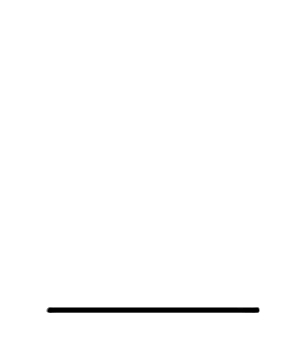
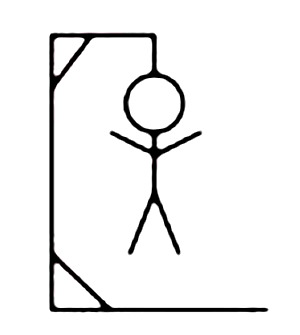
uppdating

Changed region(s): [[0.15, 0.0896, 0.9, 0.9552]]

diff --git a/js/hangman3.js b/js/hangman3.js
@@ -1,29 +1,166 @@
 $(function() {
+
+    $(".reset-game").hide();
    
-const WORDSARRAY = ["cheer", "table", "beach", "green", "drive", "hello", "admit", "earth", "image", "brown", "mouse", "house", "water", "drink"];
-const WORD = WORDSARRAY[ (Math.floor(Math.random() * WORDSARRAY.length))];
+    const WORDSARRAY = ["cheer", "table", "beach", "green", "drive", "hello", "admit", "earth", "image", "brown", "mouse", "house", "water", "drink"];
+    
+    let newWord = WORDSARRAY[ (Math.floor(Math.random() * WORDSARRAY.length))];
+    console.log(newWord);
+    const LETTERSARRAY = ["A", "B", "C", "D", "E", "F", "G", "H", "I", "J", "K", "L", "M", "N", "O", "P", "Q", "R", "S", "T", "U", "V", "W", "X", "Y", "Z"];
+    
+    let wins = 0;// count the total number of wins
+    let lose = 0;// counmt the total number of losses
 
-const LETTERSARRAY = ["A", "B", "C", "D", "E", "F", "G", "H", "I", "J", "K", "L", "M", "N", "O", "P", "Q", "R", "S", "T", "U", "V", "W", "X", "Y", "Z"];
+    let hiddenWord = "-----";
+    let letter;
+    let lettersEntered = [];    // new array for the letters entered, will add one by one in the game
+    
+    let attempts = 12; // number of attempts
+
+    let letterArray = [];
+
+    for (let b = 1; b <= 12; b++) {                             //All the pictures hiden from the begining
+        $(".picture").append('<img src="./images/'+b+'.jpg" alt="hangman" hidden=true id="' + b +'" />');
+
+    }
+   
+    $(".guessword").text(hiddenWord);
+    $(".attempts").text("Atempts: " + attempts + " of 12");
+    $(".letters_entered").text("Letters already entered: " + lettersEntered);
 
 
-$(".picture").append('<img src="./images/12.jpg" alt="hangman" />');
+    for (let k = 0; k < LETTERSARRAY.length; k++) {   //to get the keyboard from the LETTERSARRAY.
+        $("<button class='buttons'>"+LETTERSARRAY[k]+"</button>").appendTo(".keyboard"); 
+    }
+
+    $(".buttons").on( {
+        mouseenter: function() {
+            $(this).addClass("activebutton");
+        },
+        mouseleave: function(){
+            $(this).removeClass("activebutton");
+        },
+        click: function() {
+            //
+            letter= $(this).text().toLowerCase();
+
+            if(attempts > 0){
+                if(newWord.indexOf(letter) != -1) {     // check if the letter is in the word
+                //the user enter the right code
+                    lettersEntered.push(letter);  // add letter into the array
+                    letterArray = findIndexes(letter, newWord);   // calling function that will return array of indexes
+                   
+                    for(let j = 0; j < letterArray.length; j++){     //replace the "-" with the entered letter
+                        hiddenWord = replaceAt(hiddenWord,letterArray[j],letter);
+                    }
+                    if(hiddenWord === newWord){    // final conditional if the whole word is guessed or not.
+                        $(".section2").hide();
+                        $(".keyboard").hide();
+                        $(".section3").text("CONGRATULATIONS!!! YOU WIN.The word was: " + newWord).show();
+                        $(".reset-game").show();
+                        wins++;
+                    }else{
+                        $(".guessword").text(hiddenWord);
+                        $(".attempts").text("Atempts: " + attempts + " of 12");
+                        $(".letters_entered").text("Letters already entered: " + lettersEntered);
+    
+                    }
 
 
 
-for (let k = 0; k < LETTERSARRAY.length; k++) {   //to get the keyboard from the lettersArray.
-    $("<button class='buttons'>"+LETTERSARRAY[k]+"</button>").appendTo(".keyboard"); 
+                }else{                  //the user enter the wrong letter
+                    if(attempts === 12) {
+                        $("#" + attempts).show();
+                        attempts--;
+                    }else{
+                        $("#"+ (attempts + 1)).hide();
+                        $("#" + attempts).show();
+                        attempts--;
+
+                        if(attempts === 0) {
+                            $(".section2").hide();
+                            $(".keyboard").hide();
+                            $(".section3").text("GAME OVER, click reset to start again").show();
+                            $("reset-game").show();
+                            lose++;
+                        }
+                    }
+                    
+                    lettersEntered.push(letter);  // add letter into the array
+
+                    $(".guessword").text(hiddenWord);
+                    $(".attempts").text("Atempts: " + attempts + " of 12");
+                    $(".letters_entered").text("Letters already entered: " + lettersEntered);
+
+                }
+
+            }else{
+               $(".section2").hide();
+               $(".keyboard").hide();
+               $(".section3").text("GAME OVER, click reset to start again");
+               $("reset-game").show();
+               //lose++;
+            }
+        }
+    })
+
+
+
+
+function findIndexes(l, w){  // l for letter and w for word, two variables that i do not want to mix with the above already write.
+
+    let arrayOfIndexes = [];
+
+    for(let i = 0; i < w.length; i++) {
+        if(l === w[i]){                     // if the letter is in the word will add its index in the array of indexes
+            arrayOfIndexes.push(i);
+        }
+    }
+    return arrayOfIndexes;
 }
 
-$(".buttons").on( {
+function replaceAt(hWord,index,letter){
+    if(index === 0) {
+        return  letter + hWord.substring(1, hWord.length);   // this is for the first letter to replace
+    }else if (index === hWord.length-1) {                                    // this is for the last letter to replace
+        return hWord.substring(0, hWord.length-1) + letter;
+    }else {
+        return hWord.substring(0, index) + letter+hWord.substring(index+1,hWord.length);   //this is for the middle letters to replace
+    } 
+}
+
+$("<button class='reset'>RESET</button>").appendTo(".reset-game");
+
+$(".reset").on( {
     mouseenter: function() {
         $(this).addClass("activebutton");
     },
     mouseleave: function(){
         $(this).removeClass("activebutton");
     },
-  //  click: function() {
-  //      $(this).
-    })
+    click: function() {
+        $(".section3").hide();
 
+        hiddenWord="-----";
+        if(attempts < 12){
+            $("#" + (attempts+1)).hide();
+        }
+        attempts = 12; 
+        lettersEntered = [];   
+        newWord = WORDSARRAY[ (Math.floor(Math.random() * WORDSARRAY.length))];
+        console.log(newWord);
+
+        $(".guessword").text(hiddenWord);
+        $(".attempts").text("Atempts: " + attempts + " of 12");
+        $(".letters_entered").text("Letters already entered: " + lettersEntered);
+
+        $(".section2").show();
+        $(".keyboard").show();
+        $(".reset-game").hide();
+
+    }
+    
 })
 
+
+})

diff --git a/styles/hangman3.css b/styles/hangman3.css
@@ -1,5 +1,6 @@
 html {
     height: 100vh;
+    margin: 0;
 }
 
 * {
@@ -8,7 +9,6 @@ html {
 
 body {
     background-color: #BBC3C9;
-    min-height: 100%;
     margin: 0;
 }
 
@@ -34,10 +34,7 @@ h3 {
 
 main {
     padding: 32px;
-}
-
-.picture {
-    padding: 32px;
+    height: 100%;
 }
 
 .buttons {
@@ -45,10 +42,94 @@ main {
     font-size: 20px;
     margin: 4px;
     padding: 12px;
-
 }
 
 .activebutton {
     background-color: #9b6a6c;
     color: #bdd4e7;
+}
+
+.container {
+    display: flex;
+    justify-content: center;
+}
+
+.section1,
+.section2 {
+    padding: 32px;
+}
+
+.guessword {
+    font-size: 100px;
+    text-align: center;
+}
+
+.attempts,
+.letters_entered,
+.section3 {
+    font-size: 25px;
+    font-family: Verdana, Geneva, Tahoma, sans-serif;
+    padding: 16px;
+    text-align: center;
+}
+
+.keyboard {
+    border: 2px solid #212227;
+    border-radius: 30px;
+    margin: auto;
+    padding: 12px;
+    width: 700px;
+}
+
+.reset-game {
+    display: flex;
+    justify-content: center;
+    margin: auto;
+}
+
+.reset{
+    border: 2px solid #212227;
+    border-radius: 30px;
+    font-size: 20px;
+    padding: 12px 40px;
+}
+
+@media screen and (max-width: 750px) {
+    main {
+        padding: 12px;
+    }
+
+    .game {
+        padding: 8px;
+    }
+
+    .container {
+        flex-direction: column;
+    }
+
+    .section1 {
+        padding: 0;
+        margin: auto;
+    }
+
+    img {
+        width: 100%;
+    }
+
+    .section2 {
+        padding: 0;
+    }
+
+    .guessword {
+        font-size: 40px;
+        padding-top: 16px;
+    }
+
+    .letters_entered {
+        padding-top: 0;
+    }
+
+    .keyboard {
+        width: 100%;
+    }
 }

diff --git a/index.html b/index.html
@@ -15,11 +15,24 @@
             </div>
         </header>
         <main>
-            <div class="picture"></div>
-            <div class="guessword"></div>
-            <div class="attempts"></div>
-            <div class="Letters entered"></div>
+            <div class="container">
+                <section class="section1">
+                    <div class="picture"></div>
+                </section>
+
+                <section class="section2">
+                    <div class="guessword"></div>
+                    <div class="attempts"></div>
+                    <div class="letters_entered"></div>
+                </section>
+
+                <section class="section3"></section>
+            </div>
+
             <div class="keyboard"></div>
+
+            <div class="reset-game"></div>
+           
         </main>
         <footer>
             <h3>Copyright Sheila 2022</h3>
